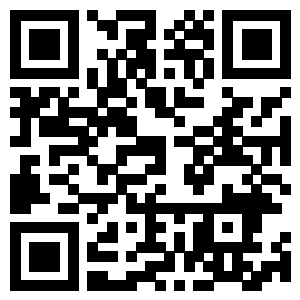
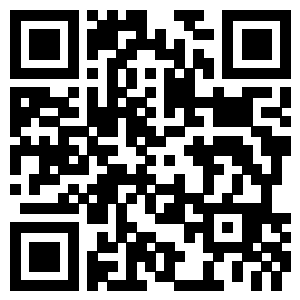
fix mta

diff --git a/src/views/Passport.vue b/src/views/Passport.vue
@@ -272,7 +272,7 @@ export default {
     wx.ready(function() {
       wx.onMenuShareTimeline({
         title: "定制宝贝环球足迹", // 分享标题
-        link: "https://www.mufenggame.com/?CKTAG=mta_share.wechat_moments", // 分享链接，该链接域名或路径必须与当前页面对应的公众号JS安全域名一致
+        link: "https://www.mufenggame.com/?CKTAG=ef.share.momet", // 分享链接，该链接域名或路径必须与当前页面对应的公众号JS安全域名一致
         imgUrl: "https://www.mufenggame.com/loading/loading.png", // 分享图标
         success: function() {
           // 用户点击了分享后执行的回调函数
@@ -283,7 +283,7 @@ export default {
       wx.onMenuShareAppMessage({
         title: "定制宝贝环球足迹", // 分享标题
         desc: "世界这么大，宝贝都去过哪些地方？", // 分享描述
-        link: "https://www.mufenggame.com/?CKTAG=mta_share.wechat_message", // 分享链接，该链接域名或路径必须与当前页面对应的公众号JS安全域名一致
+        link: "https://www.mufenggame.com/?CKTAG=ef.share.msg", // 分享链接，该链接域名或路径必须与当前页面对应的公众号JS安全域名一致
         imgUrl: "https://www.mufenggame.com/loading/loading.png", // 分享图标
         type: "", // 分享类型,music、video或link，不填默认为link
         dataUrl: "", // 如果type是music或video，则要提供数据链接，默认为空

diff --git a/src/views/SelectCountry.vue b/src/views/SelectCountry.vue
@@ -85,7 +85,7 @@ export default {
     wx.ready(function() {
       wx.onMenuShareTimeline({
         title: "定制宝贝环球足迹", // 分享标题
-        link: "https://www.mufenggame.com/?CKTAG=mta_share.wechat_moments", // 分享链接，该链接域名或路径必须与当前页面对应的公众号JS安全域名一致
+        link: "https://www.mufenggame.com/?CKTAG=ef.share.momet", // 分享链接，该链接域名或路径必须与当前页面对应的公众号JS安全域名一致
         imgUrl: "https://www.mufenggame.com/loading/loading.png", // 分享图标
         success: function() {
           // 用户点击了分享后执行的回调函数
@@ -96,7 +96,7 @@ export default {
       wx.onMenuShareAppMessage({
         title: "定制宝贝环球足迹", // 分享标题
         desc: "世界这么大，宝贝都去过哪些地方？", // 分享描述
-        link: "https://www.mufenggame.com/?CKTAG=mta_share.wechat_message", // 分享链接，该链接域名或路径必须与当前页面对应的公众号JS安全域名一致
+        link: "https://www.mufenggame.com/?CKTAG=ef.share.msg", // 分享链接，该链接域名或路径必须与当前页面对应的公众号JS安全域名一致
         imgUrl: "https://www.mufenggame.com/loading/loading.png", // 分享图标
         type: "", // 分享类型,music、video或link，不填默认为link
         dataUrl: "", // 如果type是music或video，则要提供数据链接，默认为空

diff --git a/src/views/Start.vue b/src/views/Start.vue
@@ -52,7 +52,7 @@ export default {
     wx.ready(function() {
       wx.onMenuShareTimeline({
         title: "定制宝贝环球足迹", // 分享标题
-        link: "https://www.mufenggame.com/?CKTAG=mta_share.wechat_moments", // 分享链接，该链接域名或路径必须与当前页面对应的公众号JS安全域名一致
+        link: "https://www.mufenggame.com/?CKTAG=ef.share.momet", // 分享链接，该链接域名或路径必须与当前页面对应的公众号JS安全域名一致
         imgUrl: "https://www.mufenggame.com/loading/loading.png", // 分享图标
         success: function() {
           // 用户点击了分享后执行的回调函数
@@ -63,7 +63,7 @@ export default {
       wx.onMenuShareAppMessage({
         title: "定制宝贝环球足迹", // 分享标题
         desc: "世界这么大，宝贝都去过哪些地方？", // 分享描述
-        link: "https://www.mufenggame.com/?CKTAG=mta_share.wechat_message", // 分享链接，该链接域名或路径必须与当前页面对应的公众号JS安全域名一致
+        link: "https://www.mufenggame.com/?CKTAG=ef.share.msg", // 分享链接，该链接域名或路径必须与当前页面对应的公众号JS安全域名一致
         imgUrl: "https://www.mufenggame.com/loading/loading.png", // 分享图标
         type: "", // 分享类型,music、video或link，不填默认为link
         dataUrl: "", // 如果type是music或video，则要提供数据链接，默认为空

diff --git a/src/views/Upload.vue b/src/views/Upload.vue
@@ -84,7 +84,7 @@ export default {
     wx.ready(function() {
       wx.onMenuShareTimeline({
         title: "定制宝贝环球足迹", // 分享标题
-        link: "https://www.mufenggame.com/?CKTAG=mta_share.wechat_moments", // 分享链接，该链接域名或路径必须与当前页面对应的公众号JS安全域名一致
+        link: "https://www.mufenggame.com/?CKTAG=ef.share.momet", // 分享链接，该链接域名或路径必须与当前页面对应的公众号JS安全域名一致
         imgUrl: "https://www.mufenggame.com/loading/loading.png", // 分享图标
         success: function() {
           // 用户点击了分享后执行的回调函数
@@ -95,7 +95,7 @@ export default {
       wx.onMenuShareAppMessage({
         title: "定制宝贝环球足迹", // 分享标题
         desc: "世界这么大，宝贝都去过哪些地方？", // 分享描述
-        link: "https://www.mufenggame.com/?CKTAG=mta_share.wechat_message", // 分享链接，该链接域名或路径必须与当前页面对应的公众号JS安全域名一致
+        link: "https://www.mufenggame.com/?CKTAG=ef.share.msg", // 分享链接，该链接域名或路径必须与当前页面对应的公众号JS安全域名一致
         imgUrl: "https://www.mufenggame.com/loading/loading.png", // 分享图标
         type: "", // 分享类型,music、video或link，不填默认为link
         dataUrl: "", // 如果type是music或video，则要提供数据链接，默认为空
